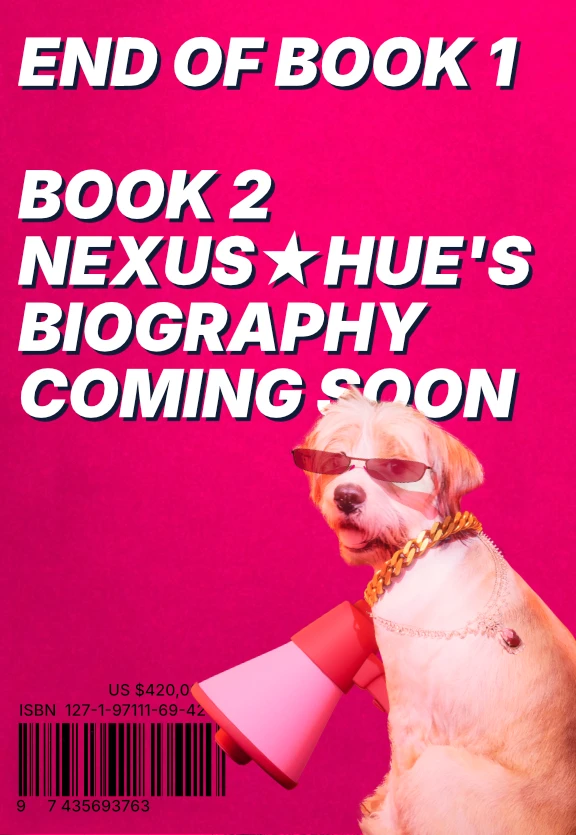
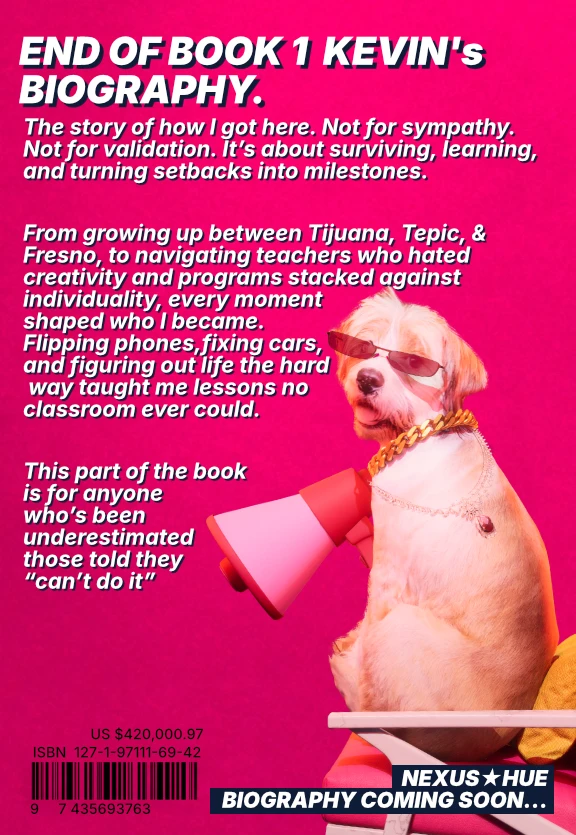
Biography flipbook update
-Added a placeholder to help with loading.
-Replaced the first page video with a regular static page.
-Made a new final page for the back of the book
-The place holder should help with loading on mobile & the static image from the first page should help it load on mobile

diff --git a/biography.html b/biography.html
@@ -405,18 +405,38 @@ Who is Kevin Robles? & Who is Nexus Hue? Are they the same person?
 
 
                     </div>
-               
-                 <div class="book-sandbox z-aboveAll">
-  <div class="book-wrapper">
-    <div class="book-container">
-      <div class="book" id="book">
+               <!-- PLACEHOLDER IMAGE -->
+<div id="flipbook-placeholder" style="cursor:pointer; max-width: 1474px; margin:0 auto;">
+  <img src="/assets/img/biography/book_1/BiograpphyBook1_Placeholder.webp" alt="Click to open book" style="width:100%; display:block;">
+<div style="display:flex; align-items:center; justify-content:center; padding: 2%;">
+  <p class="yaytext-style ButtonGlow" style="text-align:center; max-width:50%;">
+    CLICK HERE TO OPEN FLIPBOOK
+  </p>
+</div>
+  
+</div>
 
-        <!-- VIDEO PAGE -->
-  <div class="page">
+<!-- FLIPBOOK CONTAINER -->
+<div id="flipbook-container"></div>
+
+<script>
+  document.getElementById('flipbook-placeholder').addEventListener('click', function() {
+    this.style.display = 'none'; // hide placeholder
+
+    const container = document.getElementById('flipbook-container');
+
+    // Inject your flipbook HTML
+    container.innerHTML = `
+      <div class="book-sandbox z-aboveAll">
+        <div class="book-wrapper">
+          <div class="book-container">
+            <div class="book" id="book">
+
+
+       <!-- IMAGE PAGE -->
+        <div class="page">
           <div class="media-wrapper">
-            <video autoplay muted loop playsinline fetchpriority="high">
-              <source src="/assets/img/biography/book_1/Biography_Cover.mp4" type="video/mp4">
-            </video>
+            <img src="/assets/img/biography/book_1/KevinBioGraphy_CoverPage.webp" alt="Page 0" fetchpriority="high">
           </div>
         </div>
 
@@ -507,14 +527,24 @@ Who is Kevin Robles? & Who is Nexus Hue? Are they the same person?
           </div>
         </div>
 
-
+            </div>
+          </div>
+        </div>
       </div>
-    </div>
-  </div>
- </div>
+    `;
+
+    // Dynamically reload FlipbookScript.js to force initialization
+    const script = document.createElement('script');
+    script.src = 'assets/js/FlipbookScript.js';
+    script.defer = true;
+    document.body.appendChild(script);
+  });
+</script>
+
+                
           </div>
  
-
+<br>
 
                     <div class="Reading-Card yaytext-style container">
 
@@ -604,7 +634,7 @@ Just added less coolant to accommodate for the missing piece. Looking for parts 
     
     </div>
     
-<br><br><br><br>
+<br>
     
       <div class="Reading-Card yaytext-style container ">
 
